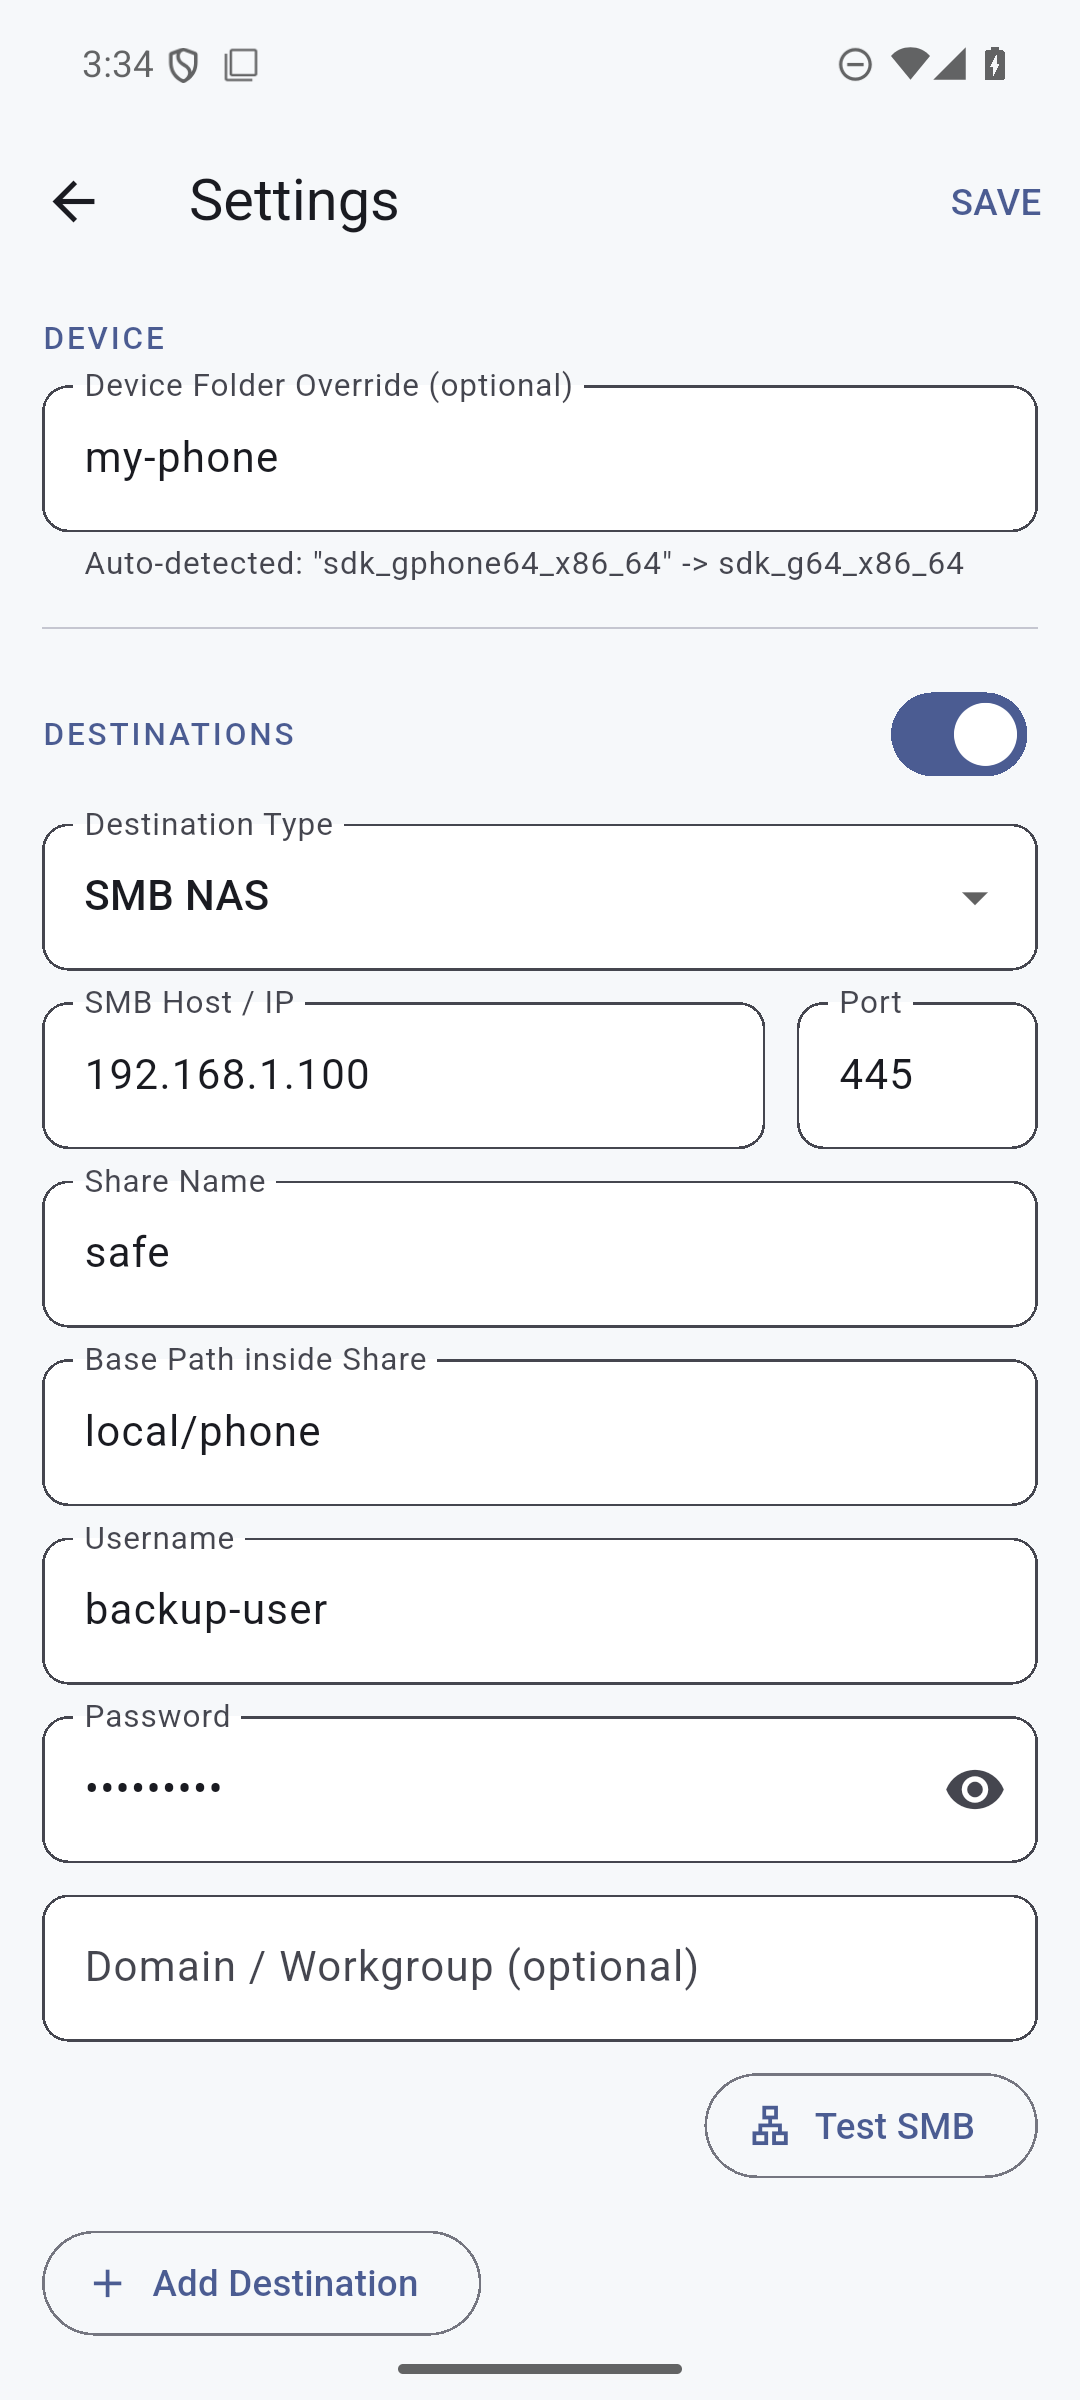
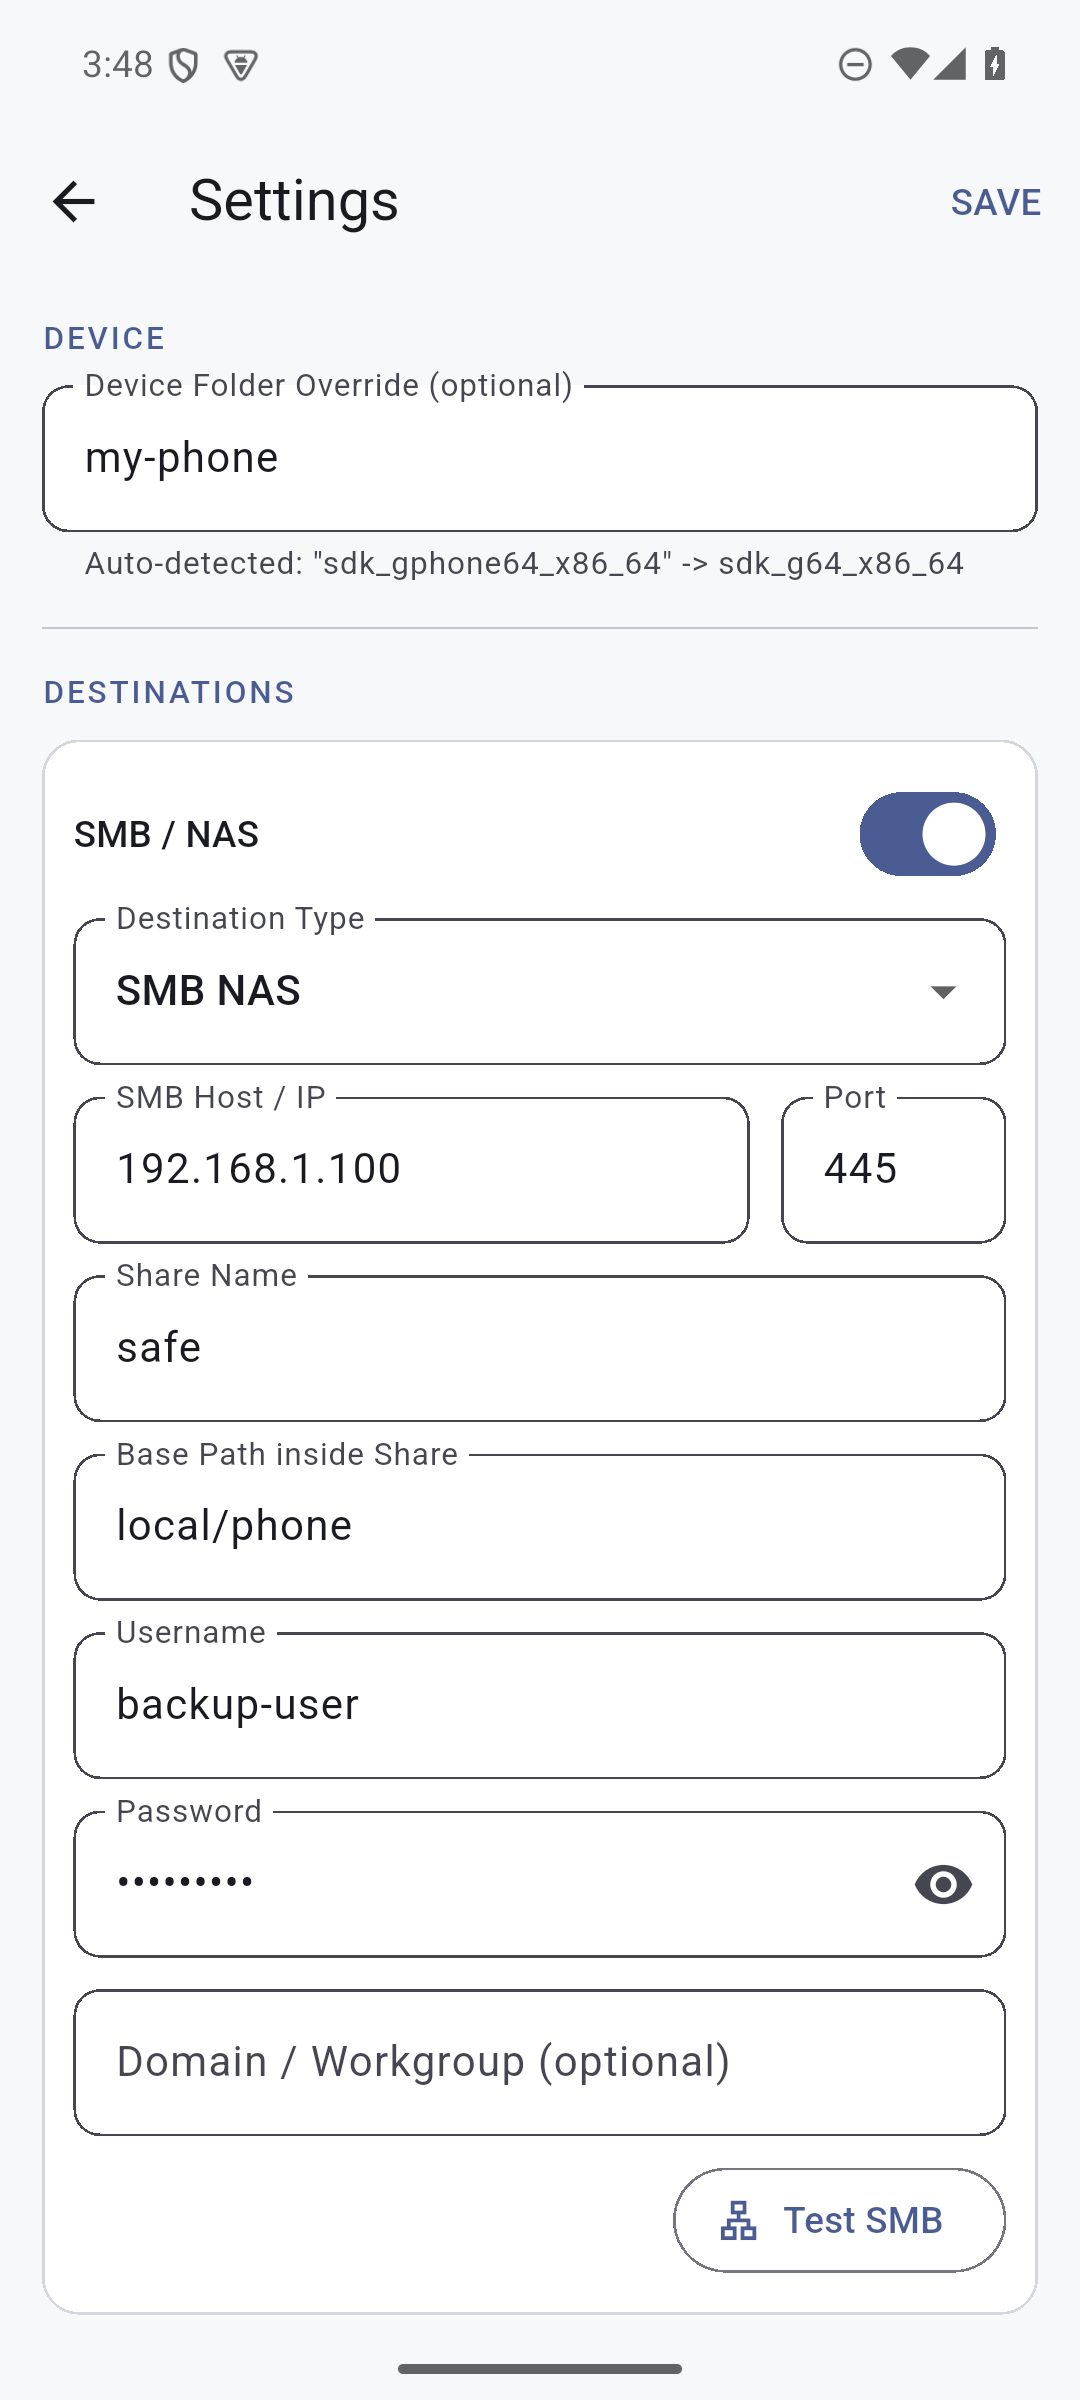
refactor(ui): move per-destination toggle into modular DestinationFormCard

diff --git a/mobile/lib/ui/widgets/destinations_section.dart b/mobile/lib/ui/widgets/destinations_section.dart
@@ -1,8 +1,193 @@
 import 'package:flutter/services.dart';
 import 'package:material_ui/material_ui.dart';
 
+import '../../core/backup/backup_destination.dart';
 import '../../core/config/smb_destination_config.dart';
 import '../../core/testing/test_keys.dart';
+import 'settings_components.dart';
+
+/// Modular card for configuring an inline SMB / NAS destination with its own enable/disable toggle.
+class DestinationFormCard extends StatelessWidget {
+  final String destinationType;
+  final List<BackupDestination> availableDestinations;
+  final ValueChanged<String> onDestinationTypeChanged;
+  final bool enabled;
+  final ValueChanged<bool> onEnabledChanged;
+  final TextEditingController hostCtrl;
+  final TextEditingController portCtrl;
+  final TextEditingController shareCtrl;
+  final TextEditingController basePathCtrl;
+  final TextEditingController usernameCtrl;
+  final TextEditingController passwordCtrl;
+  final TextEditingController domainCtrl;
+  final bool testingConnection;
+  final VoidCallback onTestConnection;
+
+  const DestinationFormCard({
+    super.key,
+    required this.destinationType,
+    required this.availableDestinations,
+    required this.onDestinationTypeChanged,
+    required this.enabled,
+    required this.onEnabledChanged,
+    required this.hostCtrl,
+    required this.portCtrl,
+    required this.shareCtrl,
+    required this.basePathCtrl,
+    required this.usernameCtrl,
+    required this.passwordCtrl,
+    required this.domainCtrl,
+    required this.testingConnection,
+    required this.onTestConnection,
+  });
+
+  @override
+  Widget build(BuildContext context) {
+    final theme = Theme.of(context);
+    return Card(
+      margin: const EdgeInsets.only(bottom: 10),
+      child: Padding(
+        padding: const EdgeInsets.all(12),
+        child: Column(
+          crossAxisAlignment: CrossAxisAlignment.stretch,
+          children: [
+            Row(
+              children: [
+                Expanded(
+                  child: Text('SMB / NAS', style: theme.textTheme.titleSmall),
+                ),
+                withTestId(
+                  AppTestKeys.settingsPrimaryDestToggleId,
+                  child: Switch(
+                    key: AppTestKeys.settingsPrimaryDestToggle,
+                    value: enabled,
+                    onChanged: onEnabledChanged,
+                  ),
+                ),
+              ],
+            ),
+            const SizedBox(height: 8),
+            withTestId(
+              AppTestKeys.settingsDestinationTypeId,
+              child: DropdownButtonFormField<String>(
+                key: AppTestKeys.settingsDestinationType,
+                initialValue: destinationType,
+                decoration: const InputDecoration(labelText: 'Destination Type'),
+                items: [
+                  for (final dest in availableDestinations)
+                    DropdownMenuItem<String>(
+                      value: dest.id,
+                      child: Text(dest.displayName),
+                    ),
+                ],
+                onChanged: (val) {
+                  if (val != null) onDestinationTypeChanged(val);
+                },
+              ),
+            ),
+            const SizedBox(height: 12),
+            Row(
+              children: [
+                Expanded(
+                  flex: 3,
+                  child: withTestId(
+                    AppTestKeys.settingsHostId,
+                    child: TextField(
+                      key: AppTestKeys.settingsHost,
+                      controller: hostCtrl,
+                      decoration: const InputDecoration(
+                        labelText: 'SMB Host / IP',
+                        hintText: '192.168.1.100',
+                      ),
+                    ),
+                  ),
+                ),
+                const SizedBox(width: 12),
+                Expanded(
+                  child: withTestId(
+                    AppTestKeys.settingsPortId,
+                    child: TextField(
+                      key: AppTestKeys.settingsPort,
+                      controller: portCtrl,
+                      keyboardType: TextInputType.number,
+                      inputFormatters: [FilteringTextInputFormatter.digitsOnly],
+                      decoration: const InputDecoration(labelText: 'Port', hintText: '445'),
+                    ),
+                  ),
+                ),
+              ],
+            ),
+            const SizedBox(height: 12),
+            withTestId(
+              AppTestKeys.settingsShareId,
+              child: TextField(
+                key: AppTestKeys.settingsShare,
+                controller: shareCtrl,
+                decoration: const InputDecoration(labelText: 'Share Name', hintText: 'safe'),
+              ),
+            ),
+            const SizedBox(height: 12),
+            withTestId(
+              AppTestKeys.settingsBasePathId,
+              child: TextField(
+                key: AppTestKeys.settingsBasePath,
+                controller: basePathCtrl,
+                decoration: const InputDecoration(
+                  labelText: 'Base Path inside Share',
+                  hintText: 'local/phone',
+                ),
+              ),
+            ),
+            const SizedBox(height: 12),
+            withTestId(
+              AppTestKeys.settingsUsernameId,
+              child: TextField(
+                key: AppTestKeys.settingsUsername,
+                controller: usernameCtrl,
+                decoration: const InputDecoration(labelText: 'Username'),
+              ),
+            ),
+            const SizedBox(height: 12),
+            SecretTextField(
+              testId: AppTestKeys.settingsPasswordId,
+              fieldKey: AppTestKeys.settingsPassword,
+              controller: passwordCtrl,
+              labelText: 'Password',
+            ),
+            const SizedBox(height: 12),
+            withTestId(
+              AppTestKeys.settingsDomainId,
+              child: TextField(
+                key: AppTestKeys.settingsDomain,
+                controller: domainCtrl,
+                decoration: const InputDecoration(labelText: 'Domain / Workgroup (optional)'),
+              ),
+            ),
+            const SizedBox(height: 8),
+            Align(
+              alignment: Alignment.centerRight,
+              child: withTestId(
+                AppTestKeys.settingsTestConnectionId,
+                child: OutlinedButton.icon(
+                  key: AppTestKeys.settingsTestConnection,
+                  onPressed: testingConnection ? null : onTestConnection,
+                  icon: testingConnection
+                      ? const SizedBox(
+                          width: 16,
+                          height: 16,
+                          child: CircularProgressIndicator(strokeWidth: 2),
+                        )
+                      : const Icon(Icons.lan_outlined, size: 18),
+                  label: const Text('Test SMB', maxLines: 1, overflow: TextOverflow.ellipsis),
+                ),
+              ),
+            ),
+          ],
+        ),
+      ),
+    );
+  }
+}
 
 /// Manages additional SMB NAS destinations with add, enable/disable, test, and remove controls.
 class ExtraDestinationsSection extends StatelessWidget {

diff --git a/mobile/lib/ui/settings_screen.dart b/mobile/lib/ui/settings_screen.dart
@@ -1,4 +1,3 @@
-import 'package:flutter/services.dart';
 import 'package:material_ui/material_ui.dart';
 
 import '../core/backup/backup_controller.dart';
@@ -273,134 +272,23 @@ class _SettingsScreenState extends State<SettingsScreen> {
           ),
         ),
         const SettingsSectionDivider(),
-        SettingsSectionHeader(
-          title: 'DESTINATIONS',
-          trailing: withTestId(
-            AppTestKeys.settingsPrimaryDestToggleId,
-            child: Switch(
-              key: AppTestKeys.settingsPrimaryDestToggle,
-              value: _primaryDestinationEnabled,
-              onChanged: (val) => setState(() => _primaryDestinationEnabled = val),
-            ),
-          ),
-        ),
+        const SettingsSectionHeader(title: 'DESTINATIONS'),
         const SizedBox(height: 10),
-        withTestId(
-          AppTestKeys.settingsDestinationTypeId,
-          child: DropdownButtonFormField<String>(
-            key: AppTestKeys.settingsDestinationType,
-            initialValue: _destinationType,
-            decoration: const InputDecoration(labelText: 'Destination Type'),
-            items: [
-              for (final dest in ctrl.availableDestinations)
-                DropdownMenuItem<String>(
-                  value: dest.id,
-                  child: Text(dest.displayName),
-                ),
-            ],
-            onChanged: (val) {
-              if (val != null) setState(() => _destinationType = val);
-            },
-          ),
-        ),
-        const SizedBox(height: 12),
-        Row(
-          children: [
-            Expanded(
-              flex: 3,
-              child: withTestId(
-                AppTestKeys.settingsHostId,
-                child: TextField(
-                  key: AppTestKeys.settingsHost,
-                  controller: _hostCtrl,
-                  decoration: const InputDecoration(
-                    labelText: 'SMB Host / IP',
-                    hintText: '192.168.1.100',
-                  ),
-                ),
-              ),
-            ),
-            const SizedBox(width: 12),
-            Expanded(
-              child: withTestId(
-                AppTestKeys.settingsPortId,
-                child: TextField(
-                  key: AppTestKeys.settingsPort,
-                  controller: _portCtrl,
-                  keyboardType: TextInputType.number,
-                  inputFormatters: [FilteringTextInputFormatter.digitsOnly],
-                  decoration: const InputDecoration(labelText: 'Port', hintText: '445'),
-                ),
-              ),
-            ),
-          ],
-        ),
-        const SizedBox(height: 12),
-        withTestId(
-          AppTestKeys.settingsShareId,
-          child: TextField(
-            key: AppTestKeys.settingsShare,
-            controller: _shareCtrl,
-            decoration: const InputDecoration(labelText: 'Share Name', hintText: 'safe'),
-          ),
-        ),
-        const SizedBox(height: 12),
-        withTestId(
-          AppTestKeys.settingsBasePathId,
-          child: TextField(
-            key: AppTestKeys.settingsBasePath,
-            controller: _basePathCtrl,
-            decoration: const InputDecoration(
-              labelText: 'Base Path inside Share',
-              hintText: 'local/phone',
-            ),
-          ),
-        ),
-        const SizedBox(height: 12),
-        withTestId(
-          AppTestKeys.settingsUsernameId,
-          child: TextField(
-            key: AppTestKeys.settingsUsername,
-            controller: _usernameCtrl,
-            decoration: const InputDecoration(labelText: 'Username'),
-          ),
-        ),
-        const SizedBox(height: 12),
-        SecretTextField(
-          testId: AppTestKeys.settingsPasswordId,
-          fieldKey: AppTestKeys.settingsPassword,
-          controller: _passwordCtrl,
-          labelText: 'Password',
-        ),
-        const SizedBox(height: 12),
-        withTestId(
-          AppTestKeys.settingsDomainId,
-          child: TextField(
-            key: AppTestKeys.settingsDomain,
-            controller: _domainCtrl,
-            decoration: const InputDecoration(labelText: 'Domain / Workgroup (optional)'),
-          ),
-        ),
-        const SizedBox(height: 8),
-        Align(
-          alignment: Alignment.centerRight,
-          child: withTestId(
-            AppTestKeys.settingsTestConnectionId,
-            child: OutlinedButton.icon(
-              key: AppTestKeys.settingsTestConnection,
-              onPressed: ctrl.testingConnection
-                  ? null
-                  : () => ctrl.testConnection(_collectSettings()),
-              icon: ctrl.testingConnection
-                  ? const SizedBox(
-                      width: 16,
-                      height: 16,
-                      child: CircularProgressIndicator(strokeWidth: 2),
-                    )
-                  : const Icon(Icons.lan_outlined, size: 18),
-              label: const Text('Test SMB', maxLines: 1, overflow: TextOverflow.ellipsis),
-            ),
-          ),
+        DestinationFormCard(
+          destinationType: _destinationType,
+          availableDestinations: ctrl.availableDestinations,
+          onDestinationTypeChanged: (val) => setState(() => _destinationType = val),
+          enabled: _primaryDestinationEnabled,
+          onEnabledChanged: (val) => setState(() => _primaryDestinationEnabled = val),
+          hostCtrl: _hostCtrl,
+          portCtrl: _portCtrl,
+          shareCtrl: _shareCtrl,
+          basePathCtrl: _basePathCtrl,
+          usernameCtrl: _usernameCtrl,
+          passwordCtrl: _passwordCtrl,
+          domainCtrl: _domainCtrl,
+          testingConnection: ctrl.testingConnection,
+          onTestConnection: () => ctrl.testConnection(_collectSettings()),
         ),
         if (ctrl.connectionResult != null) ...[
           const SizedBox(height: 10),
